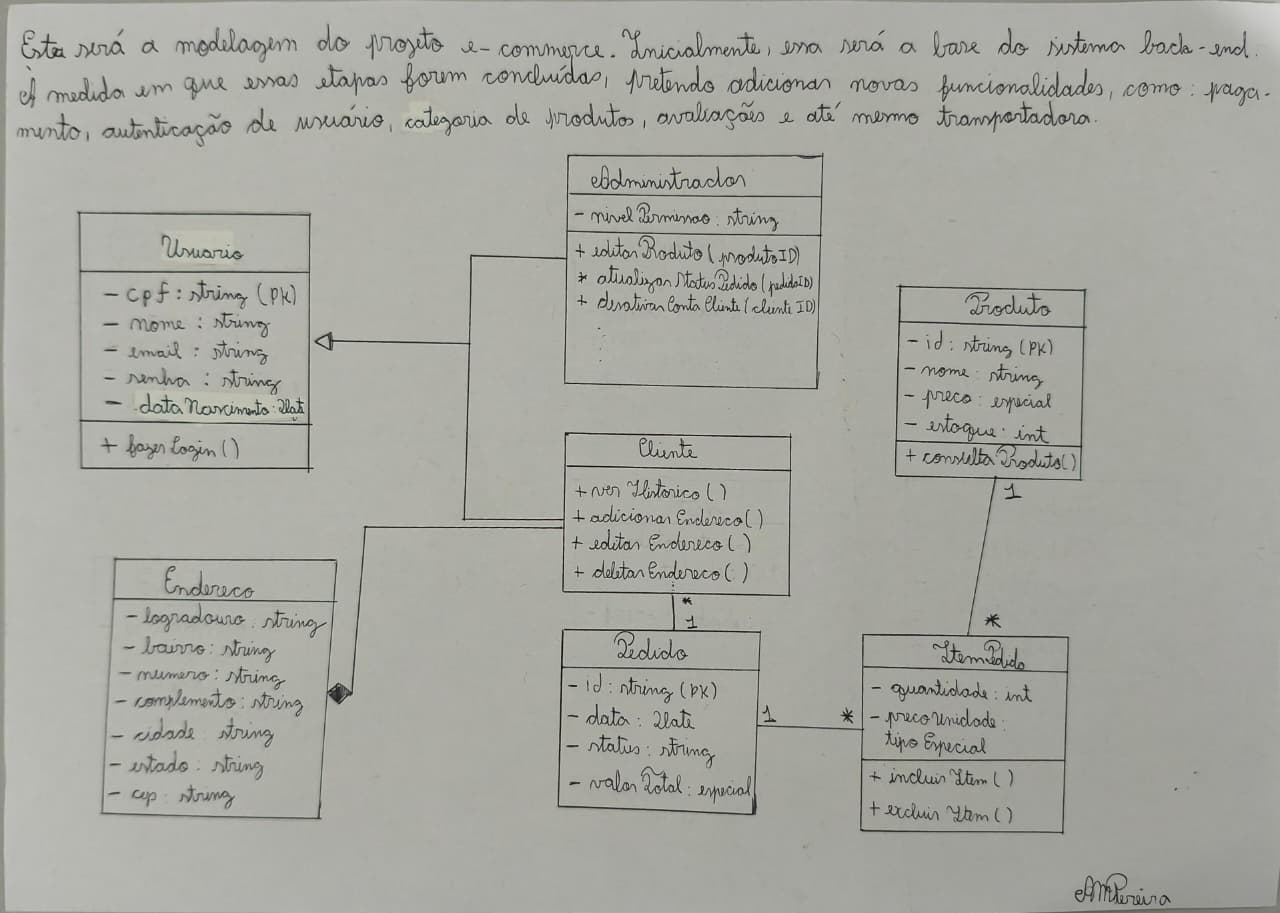
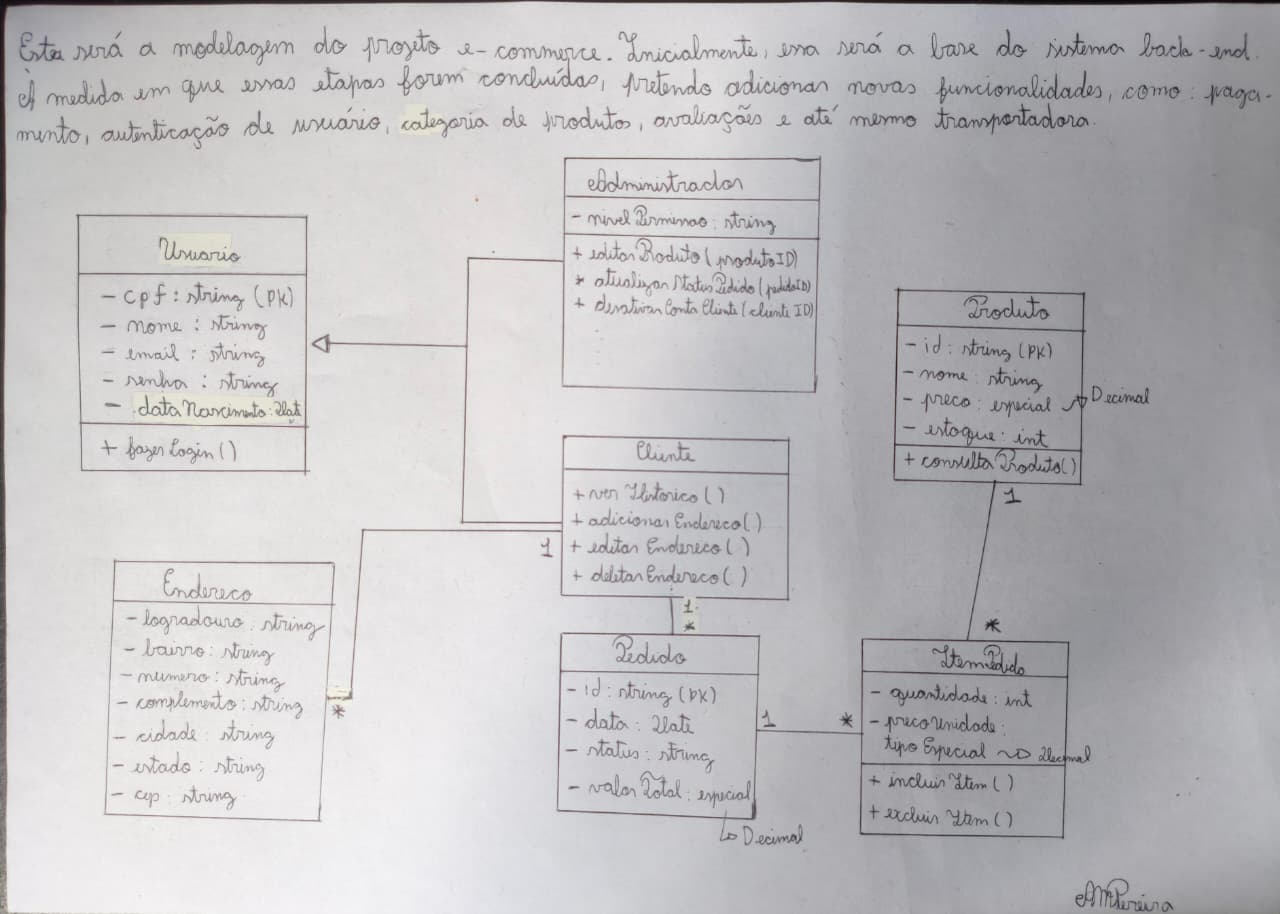
corrigindo modelagem

diff --git a/src/modules/pedido/entities/pedido.entity.ts b/src/modules/pedido/entities/pedido.entity.ts
@@ -1,7 +1,8 @@
 import { Decimal } from 'decimal.js';
-import { ItemPedido } from './pedido-item.entity.js';
+import { ItemPedido } from '@modules/pedido/entities/item-pedido.entity.ts';
 import { Cliente } from '@modules/usuario/entities/usuario.entity.ts';
 import { Endereco } from '@modules/usuario/entities/endereco.entity.ts';
+import { Produto } from '@modules/produto/entities/produto.entity.ts';
 
 export enum StatusPedido {
   CARRINHO = 'CARRINHO',
@@ -70,10 +71,17 @@ export class Pedido {
     else this.itens.push(item);
   }
 
-  removerItem(item: ItemPedido): void {
-    if (this.status !== StatusPedido.CARRINHO)
+  removerItem(produtoOuItem: Produto | ItemPedido): void {
+    if (this.status !== StatusPedido.CARRINHO) {
       throw new Error('Não é possível alterar itens após fechar o pedido.');
-    this.itens = this.itens.filter((i) => i.item !== item);
+    }
+    const produtoId =
+      'produto' in produtoOuItem ? produtoOuItem.produto.id : produtoOuItem.id; // fallback
+    this.itens = this.itens.filter(
+      (i) =>
+        i.produto.id !==
+        ('id' in produtoOuItem ? (produtoOuItem as Produto).id : produtoId),
+    );
   }
 
   finalizarPedido(metodo: MetodoPagamento): void {
